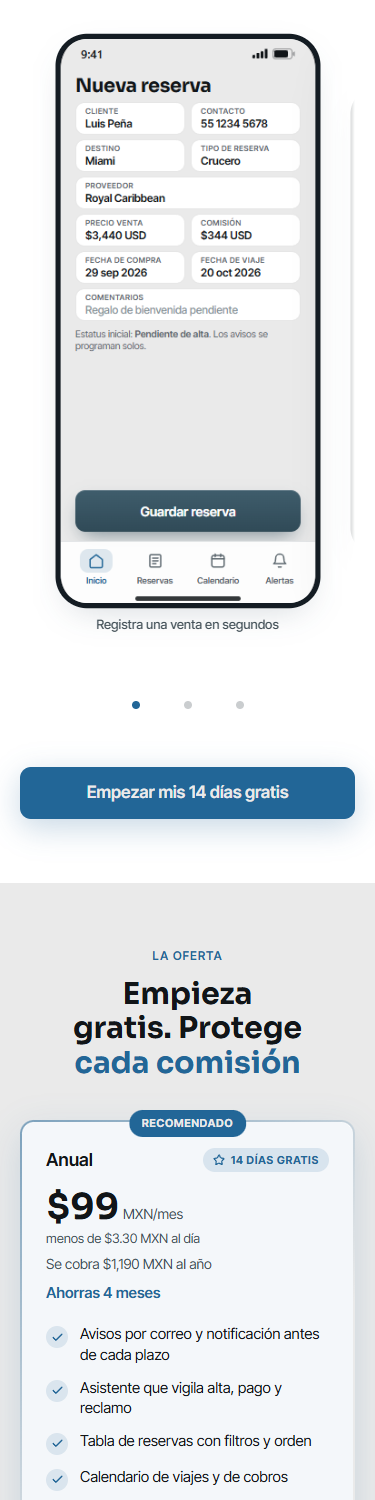
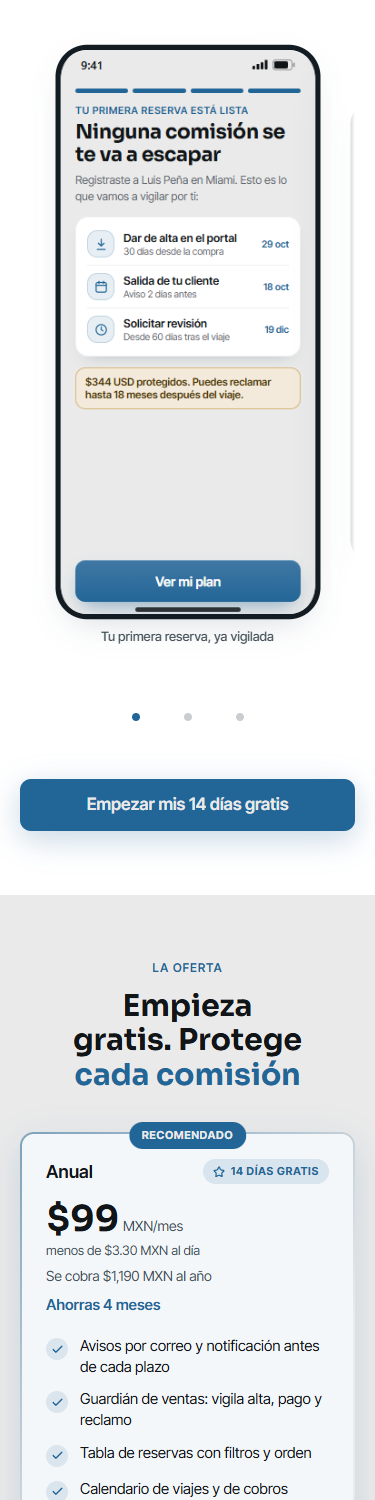
style: Guardian de ventas como nombre del metodo, pasos con contorno, sin tarjeta de garantia y carrusel con el resultado primero

diff --git a/app/page.tsx b/app/page.tsx
@@ -15,7 +15,6 @@ import { EscenaFondo } from '@/components/landing/EscenaFondo';
 import { Solucion } from '@/components/landing/Solucion';
 import { AppPorDentro } from '@/components/landing/AppPorDentro';
 import { Oferta } from '@/components/landing/Oferta';
-import { Garantia } from '@/components/landing/Garantia';
 import { Faq } from '@/components/landing/Faq';
 import { CtaFinal } from '@/components/landing/CtaFinal';
 import { FooterLegal } from '@/components/landing/FooterLegal';
@@ -41,7 +40,7 @@ export default function Landing() {
         logoCompleto
         loginHref="/entrar"
         h1Marked="[acento]Ninguna comisión[/acento] se te vence sin que lo sepas"
-        subtitleMarked="Te avisamos del [b]alta a 30 días[/b] y del [b]reclamo a 18 meses[/b]"
+        subtitleMarked="Tu Guardián de ventas te avisa: [b]alta a 30 días[/b], [b]reclamo a 18 meses[/b]"
         ctaLabel={CTA_LABEL}
         ctaHref={CTA_HREF}
         socialProof={<span className="text-balance">Hecho para agentes de agencias Host en México. Tarjeta al empezar, sin cobro hoy.</span>}
@@ -87,9 +86,9 @@ export default function Landing() {
 
       <Solucion
         kicker="¿CÓMO FUNCIONA?"
-        tituloMarked="[acento]Tu asistente[/acento] vigilando cada comisión"
-        mecanismo="tu asistente de comisiones"
-        bigIdeaMarked="Cada venta que registras tiene su asistente: [b]te avisa antes de que venza cada plazo[/b]."
+        tituloMarked="[acento]Tu Guardián de ventas[/acento] vigilando cada comisión"
+        mecanismo="Guardián de ventas"
+        bigIdeaMarked="Cada venta que registras tiene su guardián: [b]te avisa antes de que venza cada plazo[/b]."
         pasos={[
           { titulo: 'Registra la venta', detalle: 'Cliente, destino, fechas y comisión, en segundos desde tu celular.' },
           { titulo: 'Calculamos tus plazos', detalle: 'Alta a 30 días de la compra, revisión a 60 días del viaje y reclamo a 18 meses.' },
@@ -107,8 +106,8 @@ export default function Landing() {
         kicker="VISTAS DE EJEMPLO DE LA APP"
         tituloMarked="Dale un vistazo a [acento]tu próximo asistente[/acento]"
         frames={[
-          { src: '/mock/nueva-reserva.png', alt: 'Vista de ejemplo: formulario de nueva reserva', label: 'Registra una venta en segundos' },
           { src: '/mock/resultado.png', alt: 'Vista de ejemplo: plazos programados de una reserva', label: 'Tu primera reserva, ya vigilada' },
+          { src: '/mock/nueva-reserva.png', alt: 'Vista de ejemplo: formulario de nueva reserva', label: 'Registra una venta en segundos' },
           { src: '/mock/calendario.png', alt: 'Vista de ejemplo: calendario del mes', label: 'Viajes y cobros en un calendario' },
         ]}
         ctaLabel={CTA_LABEL}
@@ -130,7 +129,7 @@ export default function Landing() {
           ctaHref: '/onboarding?plan=anual',
           features: [
             'Avisos por correo y notificación antes de cada plazo',
-            'Asistente que vigila alta, pago y reclamo',
+            'Guardián de ventas: vigila alta, pago y reclamo',
             'Tabla de reservas con filtros y orden',
             'Calendario de viajes y de cobros',
             'Importa tu Excel: tu base lista el mismo día',
@@ -144,21 +143,12 @@ export default function Landing() {
           ctaHref: '/onboarding?plan=mensual',
           features: [
             'Avisos por correo y notificación antes de cada plazo',
-            'Asistente que vigila alta, pago y reclamo',
+            'Guardián de ventas: vigila alta, pago y reclamo',
             'Importa tu Excel: tu base lista el mismo día',
             'Tabla de reservas con filtros y calendario',
             'Cancelas cuando quieras',
           ],
         }}
-      />
-
-      <p className="bg-[var(--bg)] px-5 pb-10 text-center text-sm text-[var(--text-secondary)]">
-        Si cancelas antes de los 14 días, no pagas nada.
-      </p>
-
-      <Garantia
-        nombre="Prueba de 14 días sin riesgo"
-        condicionMarked="Pruébalo 14 días sin cobro. Si no te sirve, [b]cancelas antes[/b] y no pagas nada."
       />
 
       <Faq

diff --git a/components/landing/Solucion.tsx b/components/landing/Solucion.tsx
@@ -93,7 +93,7 @@ export function Solucion({
                 {String(i + 1).padStart(2, '0')}
               </span>
               <span aria-hidden="true" className="h-4 w-px bg-[color-mix(in_oklab,var(--accent)_45%,transparent)]" />
-              <div className="tarjeta-suave flex w-full flex-1 flex-col items-center justify-center rounded-[var(--radius-card)] px-5 py-4 text-center">
+              <div className="flex w-full flex-1 flex-col items-center justify-center rounded-[var(--radius-card)] border border-[color-mix(in_oklab,var(--accent)_45%,transparent)] bg-transparent px-5 py-4 text-center">
                 <h3 className="text-[16px] font-semibold text-[var(--text-primary)]">{p.titulo}</h3>
                 <p className="mt-1 text-[15px] leading-snug text-[var(--text-secondary)]">{p.detalle}</p>
               </div>

diff --git a/components/ImportarExcel.tsx b/components/ImportarExcel.tsx
@@ -45,7 +45,7 @@ export function ImportarExcel() {
         {/* 1 · Texto */}
         <div className="text-center min-[1120px]:col-start-1 min-[1120px]:row-start-1 min-[1120px]:text-left">
           <p className="text-xs font-semibold uppercase tracking-[0.08em] text-[var(--accent)]">¿Ya tienes todo en Excel?</p>
-          <h2 className="mt-2 text-balance text-[28px] font-bold leading-[1.15] [font-family:var(--font-display)] md:text-[34px]">
+          <h2 className="mt-2 text-balance text-[30px] font-bold leading-[1.15] [font-family:var(--font-display)] md:text-[34px]">
             Importa todos los datos de tu Excel <span className="text-[var(--accent)]">en segundos</span>
           </h2>
           <p className="mt-3 text-[17px] leading-relaxed text-[var(--text-secondary)]">

diff --git a/components/landing/ui.tsx b/components/landing/ui.tsx
@@ -234,7 +234,7 @@ export function StickyCtaMobile({
           <motion.a
             whileTap={{ scale: 0.97 }}
             href={ofertaVista ? href : `#${ofertaId}`}
-            className="flex h-12 w-full items-center justify-center rounded-[var(--radius-button)] bg-[var(--accent)] text-[16px] font-semibold text-[var(--bg)] [touch-action:manipulation]"
+            className="flex h-12 w-full items-center justify-center rounded-[var(--radius-button)] bg-[var(--accent)] text-[16px] font-semibold text-[var(--on-accent)] [touch-action:manipulation]"
           >
             {ofertaVista ? labelComercial : labelPre}
           </motion.a>

diff --git a/components/AvisosAsistente.tsx b/components/AvisosAsistente.tsx
@@ -16,7 +16,7 @@ export function AvisosAsistente() {
   return (
     <section aria-label="Los avisos de tu asistente" className="bg-[var(--bg)] pb-12 pt-16 md:pt-24">
       <div className="mx-auto w-full max-w-[1140px] px-5">
-        <h2 className="text-balance text-[28px] font-bold leading-[1.15] [font-family:var(--font-display)] md:text-[34px]">
+        <h2 className="text-balance text-[30px] font-bold leading-[1.15] [font-family:var(--font-display)] md:text-[34px]">
           Cada venta te da <span className="text-[var(--accent)]">aviso de:</span>
         </h2>
         <ul className="mt-5 grid gap-3 md:grid-cols-2">

diff --git a/docs/revisiones/landing-veredicto.md b/docs/revisiones/landing-veredicto.md
@@ -1,9 +1,28 @@
-# VEREDICTO revisor-visual — landing
-Fecha: 2026-10-20 10:00
+# VEREDICTO revisor-visual — landing (ronda 3)
+Fecha: 2026-10-20 12:00
 Screenshot: docs/revisiones/landing-375.png
 Usabilidad: 28/40
-Craft: 12/20
+Craft: 14/20
 Copy (si vende): 15/20
-Fidelidad (si hubo referencia): FIEL
+Fidelidad (si hubo referencia): N-A
 Veredicto: NO LISTA
-Top defectos: (1) CRITICO subtitulo del hero truncado a "alta a los 30..." por truncarMarcado(…,14) en components/landing/Hero.tsx: la correccion de plazos concretos no llega a pantalla; (2) CRITICO captura invalida: Problema, "Con AgentTrack", lista de avisos, Oferta, Garantia y FAQ salen en blanco (whileInView sin disparar), ~55% de la pagina sin verificar; (3) ALTO bloque azul de BandaPuente vacio ~620px y franja blanca vacia ~400px bajo "ANTES"; (4) MEDIO chip del mecanismo "tu asistente de comisiones" es una linea azul suelta sin contenedor y la misma frase "Tarjeta al empezar, sin cobro hoy" se repite 5 veces; (5) MEDIO alineacion inconsistente entre titulos (hero y Excel centrados, Solucion y Avisos a la izquierda), carrusel de vistas con hueco muerto dentro del mock y puntos de 6px como control tactil.
+Top defectos: 1) el mecanismo bautizado es una etiqueta genérica y no está en el hero; 2) la banda Excel tiene tarjetas con aspecto de botón que no hacen nada, de anchos desiguales y con un ícono defectuoso; 3) la promesa de prueba sin riesgo se repite 4 veces con un bloque grande de relleno; 4) AvisosAsistente e ImportarExcel rompen el sistema de secciones (h2, alineación, tarjetas); 5) la pantalla que vende (el aviso dorado) no se muestra en ningún sitio y el carrusel abre con un formulario.
+
+Detalle (sobre captura completa de 7 partes y código de app/page.tsx + components/landing/*):
+- Usabilidad: h1:3 h2:3 h3:3 h4:2 h5:3 h6:3 h7:3 h8:2 h9:3 h10:3
+- Craft: jerarquía:3 profundidad:3 identidad:2 movimiento:3 encaje:3
+- Copy: idea:3 especificidad:3 emoción:3 oferta:3 acción:3
+- Gate de carga cognitiva: 1 falla (elemento que parece interactivo y no actúa: pasos de ImportarExcel) → no es sobrecarga crítica.
+- CTA héroe vivo: cumple los 4 (contraste ~6.1:1, whileTap 0.97, nunca disabled, 52px ancho completo). Menor: el sticky usa var(--bg) como color de texto y el kit usa --on-accent (token distinto para lo mismo).
+- Anclas de conversión: titular con énfasis OK, hairline degradé en plan anual OK, chips SVG y checks custom OK, secciones adyacentes distinguibles OK.
+- Ficha-arte: paleta #226697 sobre #EAEAEA/blanco, Sora + Inter Tight, radios 14/11 coinciden. El dorado #BE8C2D (dispositivo ownable) NO aparece en la UI de la landing, solo dentro de imágenes de la usuaria.
+- Movimiento (código): reveal escalonado con reduced-motion en Solución/Oferta/Faq/AppPorDentro/Banda/Avisos, whileTap en CTAs, FAQ con altura animada, sticky con entrada. Sin conteo de números, sin dibujado (no aplican mucho a landing); Hero solo fade; AntesDespues/ImportarExcel estáticos.
+- Heurísticas 3/7 (código): sin undo aplicable; control = Entrar, enlaces legales, FAQ colapsable, dots tocables 44px; flexibilidad = sticky CTA de 2 estados, deep links ?plan=anual|mensual, /entrar.
+- Notas de archivos de imagen de la usuaria (no penalizadas como decisión, solo legibilidad): burbujas del ANTES y alertas del CON, y la pantalla del celular del hero y de la banda Excel, son ilegibles a 375px (texto ~7-9px efectivos).
+
+TOP DEFECTOS
+1. [Solución + hero, partes 01-02] ALTA — el "mecanismo bautizado" es "tu asistente de comisiones" (etiqueta genérica en barra azul), no aparece en el hero, y la misma idea se explica 3 veces (3 pasos, 4 avisos, Antes/Con). Fix: bautizar con nombre propio (p.ej. "Alarma de plazos") y repetirlo en subtítulo del hero, chip de Solución y features de ambos planes; fusionar Avisos dentro de los pasos.
+2. [ImportarExcel, parte 04 y 03-04 y≈870-1270] ALTA — los 3 pasos son tarjetas con sombra e ícono de subir que parecen botones y no hacen nada; anchos desiguales (≈165/240/175px); el ícono del paso 2 muestra barras grises fantasma detrás del check (parece un glitch); además repite los 3 pasos de Solución. Fix: pasos planos en lista numerada de ancho completo (sin sombra ni upload), quitar IconoColumnas o dejar solo el check, o reducir la banda a imagen + una línea.
+3. [Oferta/Garantía/Faq/CtaFinal, partes 05-07] MEDIA — "14 días, cancelas antes y no pagas nada" aparece en la línea bajo los planes, en la tarjeta grande "Prueba de 14 días sin riesgo" (con escudo que simula garantía), en la FAQ y en el recap final, además de los 2 badges. Fix: borrar la línea suelta y reducir la tarjeta a una línea dentro de la card anual; usar ese espacio para mostrar el aviso real; dejar el texto honesto de que es prueba, no garantía.
+4. [AvisosAsistente y ImportarExcel vs kit, partes 03-04] MEDIA — rompen el sistema: h2 28px sin kicker (Avisos) vs 30px con kicker (Solución/Oferta), alineación que salta izquierda/centro entre secciones, y 3 variantes de tarjeta (Problema gris, tarjeta-suave centrada, Avisos con borde y texto a la izquierda); token de texto del sticky distinto al del CTA. Fix: pasarlos por SectionShell + Kicker + h2 30/40 y un solo componente de tarjeta; usar --on-accent en el sticky.
+5. [Identidad y prueba visual, partes 02-05] MEDIA — Avisos dice "se pinta en dorado" pero no hay ninguna tarjeta en dorado; el dorado #BE8C2D (firma de la ficha) no existe en la landing; el carrusel abre con "Nueva reserva" (un formulario) y las vistas 2-3 no se ven a 375px (solo una astilla), así que lo que vende (el aviso) nunca se ve en la UI; 3 tratamientos de imagen distintos (recorte 3D, foto oscura, recortes con mancha azul). Fix: pintar la 1ª tarjeta de Avisos con franja dorada, reordenar el carrusel con "resultado/avisos" primero y mostrar la 2ª vista asomando con más margen.

diff --git a/docs/revisiones/pantalla-principal-veredicto.md b/docs/revisiones/pantalla-principal-veredicto.md
@@ -1,9 +1,9 @@
 # VEREDICTO revisor-visual — pantalla-principal
-Fecha: 2026-10-20 13:00
+Fecha: 2026-10-20 14:00
 Screenshot: docs/revisiones/pantalla-principal-375.png
-Usabilidad: 30/40
+Usabilidad: 29/40
 Craft: 15/20
 Copy (si vende): N-A
 Fidelidad (si hubo referencia): N-A
 Veredicto: NO LISTA
-Top defectos: 1) [Alta] Datos de ejemplo que parecen un error: en "Reservas recientes" la misma reserva "Luis Peña · Miami $344 USD / Pendiente de alta" aparece dos veces (salidas 2 dic y 9 nov) y "Marcos y Ana" ocupa dos filas seguidas en "Lo que sigue"; el usuario piensa que la app duplica -> corregir semilla (clientes/destinos/montos distintos) y/o agrupar alertas por cliente. 2) [Alta] "Lo que sigue": el título "Pago del cliente · Marcos y Ana" se parte en 2 líneas (sin truncate) y deja esa fila más alta que las demás con la insignia centrada a otra altura; las otras filas ocupan 1 línea -> poner la acción como línea 1 corta ("Pago del cliente") y el cliente en el subtítulo, o truncate + fecha; mismo patrón de fila en las dos listas (en recientes sí trunca). 3) [Media] Tarjeta héroe: border-b-4 dorado sobre esquinas redondeadas dibuja dos medias lunas en las esquinas inferiores en lugar de una franja limpia, y es el único dispositivo ownable (fino); las etiquetas de mosaico en text-xs (12px) sobre blanco 15% son pequeñas -> hacer la franja con un pseudo-elemento recortado por overflow-hidden y dar peso al detalle firma; etiquetas a 13px. 4) [Media] Ritmo de espaciado: gap-5 (20px, fuera de la escala 4·8·12·16·24·32) es idéntico entre cabecera, héroe, alerta, botones y secciones; la alerta (pertenece al total) queda tan lejos del héroe como una sección nueva -> 16px entre héroe y alerta, 24-32px antes de cada sección, y quitar el 20px. 5) [Media] Movimiento incompleto (código): hay stagger, Contador y active:scale-[0.97] en botones, pero las tarjetas usan 0.99 (no se siente), entrada(4) se repite para botones y "Lo que sigue" (sin escalonado entre ellos), no hay transición entre pestañas ni celebración, y los mosaicos del héroe parecen tapables pero no hacen nada (ni atajo a filtrar por estatus) -> tap 0.97 en tarjetas, índices de entrada únicos, mosaicos como enlaces a Reservas filtradas o sin apariencia de botón, transición suave de página. Otros: sin "Salir" visible en móvil con auth local es consistente; la sección "Lo que sigue" desaparece sin mensaje si no hay alertas (falta "Todo al día"); radios mezclados 8/11/14/pill entre mosaicos, alerta y tarjetas; barra de pestañas flotante tapa contenido a mitad de tarjeta en el primer viewport (esperable, con pb-32 correcto al fondo). Corregido bien desde la ronda 1: mosaicos con etiquetas distintas, alerta de una línea tras el total, escala 30/20, "Ver alertas/Ver reservas", íconos de pestañas iguales.
+Top defectos: 1) [Alta] Mosaicos del héroe (2 esperan alta / 3 pago pendiente / 2 en revisión): los tres son enlaces a la MISMA pantalla /app/reservas sin filtro; parecen filtros por estatus y no lo son (promesa rota, h6/h8) -> enlazar a /app/reservas?estatus=... o quitarles la apariencia de botón; además "pago pendiente" se parte en 2 líneas y los otros en 1 (desencaje) -> etiquetas cortas ("por cobrar") o text-[13px] con whitespace-nowrap. 2) [Alta] "Lo que sigue" redundante y genérico: filas 1 y 2 son el mismo cliente y la misma fecha (Marcos y Ana, 24 oct) con títulos "Dar de alta" / "Pago del cliente" idénticos al de otras filas, y Marcos y Ana reaparece en Reservas recientes; el usuario ve lo mismo tres veces y no distingue qué hacer primero -> agrupar alertas por reserva (una fila por cliente con "2 pendientes") y poner en el título la acción con destino ("Dar de alta a Marcos y Ana en Caribe"). 3) [Media] Demasiados objetivos táctiles competidores sobre el pliegue (h8): banner de ejemplo, Mi cuenta, 3 mosaicos, alerta, CTA dorado, Importar Excel, Ver alertas, y ya la primera tarjeta queda tapada por la cápsula; el CTA primario aparece recién a ~520px -> compactar el banner de demo a una línea o moverlo al final, y subir el CTA dorado justo debajo de la alerta (ya lo está) reduciendo Importar Excel a enlace de texto. 4) [Media] Escala tipográfica fuera del contrato (FICHA: display 38 / title 21 / body 14 / label 11): se ven ~30 (saludo), 36 (total), 20 (títulos), 16, 14 y 12 (insignias, badge) = 6 tamaños, más de 3 por pantalla; insignias de ~12px sobre pastel con contraste justo -> unificar a 3 tamaños + label y subir insignias a 13px con texto más oscuro. 5) [Media] Radios mezclados (mosaicos rounded-lg 8px, alerta y botones radius-button, tarjetas radius-card 14, insignias pill, cápsula) y dispositivo ownable aún tímido (franja dorada de 6px sobre héroe azul genérico tipo fintech; sin textura/ilustración de serie) -> mosaicos con radio 11px del kit y dar al héroe un detalle firma propio (grano sutil o trazo de ruta de viaje). Movimiento (código): stagger con índices únicos, Contador y scale 0.97 ahora OK con reduced-motion; falta transición entre pestañas y no hay celebración al cobrar (aceptable en esta pantalla, pero tope 3). Corregido bien desde la ronda 2: semilla limpia sin duplicados, filas con acción arriba y cliente+fecha abajo, franja dorada como barra recortada, mosaicos enlazados con etiqueta de 14px, ritmo 24/16px, mensaje "Todo al día". Verificaciones en código: h3 (deshacer) con confirmación de quitar demo y Cancelar, OK; h7 sin atajos de experto más allá del CTA siempre visible, 3; paleta/tipografía coinciden con FICHA-ARTE (azul #226697, dorado, Sora/Inter Tight), sin desvío; no coincide con los vetados Capítulo/Umbral. Gate de carga cognitiva: 0 fallas críticas.

diff --git a/docs/revisiones/onboarding-veredicto.md b/docs/revisiones/onboarding-veredicto.md
@@ -1,11 +1,9 @@
-# VEREDICTO revisor-visual — onboarding (ronda 2)
-Fecha: 2026-10-20 15:00
+# VEREDICTO revisor-visual — onboarding
+Fecha: 2026-10-20 12:00
 Screenshot: docs/revisiones/onboarding-375.png
-Usabilidad: 31/40
+Usabilidad: 29/40
 Craft: 13/20
 Copy (si vende): 15/20
-Fidelidad (si hubo referencia): FIEL
+Fidelidad (si hubo referencia): N-A
 Veredicto: NO LISTA
-Top defectos: 1) [ALTA, craft/encaje, paso 3 reserva] El selector USD/MXN queda ~8px más arriba que el input "Tu comisión" (toggle y=323-371, input y=331-379) por el mt-5 fijo: desencaje visible a simple vista -> alinear con items-end o dar al toggle su propia etiqueta "MONEDA" de la misma altura que la del input. 2) [ALTA, craft/identidad y ficha, todos los pasos] El radial dorado (btn-oro-to al 14%) abajo-izquierda del fondo es decoración: la FICHA-ARTE exige dorado SOLO para alerta por vencer; además deja una banda beige con costura bajo la barra fija (pasos 1, 3 y 4, y~795) y no hay ningún dispositivo ownable visible (sin hairline degradé ni franja dorada en la tarjeta héroe) -> quitar el radial dorado, añadir hairline degradé 1px a la tarjeta héroe del resultado y franja dorada solo cuando el plazo sea urgente. 3) [MEDIA, usabilidad/h8 y jerarquía, paso 4 resultado] Titular de 3 líneas a 36px + eyebrow + párrafo empujan la 4ª tarjeta (Último día para reclamar, la promesa de 18 meses) bajo el botón: su detalle y chip asoman tapados por el degradé; el banner de comisión queda fuera de la primera vista -> titular a 2 líneas ("Tu primera reserva ya está vigilada" + nombre en el eyebrow), quitar el párrafo duplicado o reducir tarjetas a 3 visibles + resto en scroll con espacio reservado bajo la barra. 4) [MEDIA, copy/oferta, paso 4 microcopy] "Tarjeta hoy, sin cobro hasta el 3 de noviembre" es críptico (no dice que la tarjeta solo se registra) y no nombra la garantía/reembolso con plazo junto al botón; tampoco resume qué recibe (avisos de alta, salida y reclamo) -> "Hoy solo registras tu tarjeta; no te cobramos hasta el 3 de noviembre. Luego $149 MXN al mes o $1,190 al año. Cancelas cuando quieras." + una línea con la garantía nombrada según FICHA-MERCADO. 5) [MEDIA, copy/emoción y acción, pasos 1 a 3] Los titulares y subtítulos de los pasos 1 a 3 son neutros ("Así tu plan se siente tuyo", "Son unos 30 segundos") y 5 botones dicen solo "Continuar": no usan la voz del avatar ni el beneficio; el paso 1 deja ~450px de vacío muerto con un solo campo -> subtítulos con la escena del avatar ("para que tus comisiones no se queden en el aire") y CTAs de beneficio en primera persona ("Seguir con mi plan"); llenar el hueco del paso 1 con una línea de valor (p. ej. "Te avisamos a los 30 días, antes de que salga tu cliente y a los 18 meses").
-
-Notas: no se penaliza la decisión de no ofrecer "No saber si ya me pagaron". Verificado en código: CTA héroe vivo (h-14, whileTap 0.97, nunca disabled, contraste blanco sobre #226697 >6:1); movimiento: stagger, anillo y conteo de progreso, tap, transición de pasos y reduced-motion presentes; sin conteo de número héroe en el resultado y celebración limitada a un check con spring. Paleta, Sora/Inter Tight y radio 14 coinciden con la ficha salvo el dorado decorativo. Control (h3) y flexibilidad (h7) verificados en código: atrás con historial real, estado en localStorage, defaults y datos de ejemplo; la selección avanza sola a los 300ms sin deshacer explícito. No se capturaron en pantalla los pasos 2 (agencia), 3 (control), 5 (reconocimiento) ni 7 (cargando): puntuados solo por código.
+Top defectos: 1) 04-resultado-375.png esta en blanco (solo barra al 6%, sin contenido): la pantalla que lleva al paywall no tiene evidencia visual valida, se puntua por codigo. 2) Fondo plano #EAEAEA con un gradiente azul tenue arriba; las opciones y campos son blancos sin sombra: profundidad 2/4. Pasos 1-3 sin dispositivo ownable (tarjeta heroe azul + franja dorada solo existe en el resultado, no verificado). 3) Resultado en modo ejemplo: titular de 4xl "Asi se vera tu asistente con tu primera reserva real, [nombre]" (4+ lineas) contradice el eyebrow "[nombre], tu primera reserva esta lista" y rompe la regla de titular corto. 4) Paso 1: 3 lineas de valor planas en caja gris + hueco muerto de ~330px hasta el boton; paso 2 y 3 tambien con vacio bajo el contenido; el escenario del dolor ("trabajar de a gratis", angustia nocturna de FICHA-AVATAR) no aparece hasta el paso 5. 5) Errores de campo son solo "Escribe el cliente."; no hay aviso si falla el guardado local; el resultado tiene 4 filas + 2 avisos + CTA + microcopy de 3 frases (sobrecarga), sin conteo animado del monto de comision ni celebracion.

diff --git a/docs/revisiones/paywall-veredicto.md b/docs/revisiones/paywall-veredicto.md
@@ -1,9 +1,9 @@
 # VEREDICTO revisor-visual — paywall
-Fecha: 2026-10-20 12:00
+Fecha: 2026-10-20 15:00
 Screenshot: docs/revisiones/paywall-375.png
 Usabilidad: 31/40
 Craft: 15/20
 Copy (si vende): 16/20
 Fidelidad (si hubo referencia): N-A
 Veredicto: NO LISTA
-Top defectos: 1) Barra fija tapa el plan Mensual en el primer viewport (precio $149 cortado, comparacion de planes rota sin scroll) -> compactar contenido sobre los planes (hero card o 3 beneficios a 2) para que ambos planes queden sobre la barra a 375x812. 2) Copy eje emocion = 2 (ningun dolor del avatar visible; la linea "Una sola comisión que no dejes vencer puede pagar tu año" queda bajo la barra) -> subirla junto a los planes con el literal "no trabajes de a gratis". Con un eje <=2 se corrige aunque el total pase. 3) Beneficios dicen alta 30 dias / reclamo 18 meses; FICHA-AVATAR habla de alertas a 24h y 90 dias: incoherencia de promesa -> alinear con el dato real. 4) Preferencias de aviso (checkbox + 3 chips de hora) dentro del paywall antes de pagar suman decisiones y largo -> moverlas a despues del pago o dejar default fijo. 5) Sin estado de error/tiempo de espera si el pago no abre (spinner indefinido, solo se reinicia con pageshow) -> tras ~8 s mostrar "No se abrió tu pago, intenta de nuevo" y reactivar el boton. Menores: pill dorado "344 USD" sigue siendo dorado en tarjeta azul (la ficha lo reserva a alerta/monto en riesgo, aceptable pero vigilar); mas de 3 tamanos de texto (36/24/16/14/12).
+Top defectos: 1) [Primer viewport, lista de beneficios] la barra fija corta el primer beneficio a media frase ("...alta (30 dias) y el" y la segunda linea queda tapada) y los otros dos quedan ocultos; se ve como texto roto, no como invitacion a hacer scroll -> compactar la tarjeta "Ya registraste" (quitar la linea "Sin plan, esta reserva..." o fusionarla en 1 linea) o mover la frase del dolor a 2 lineas para que al menos un beneficio entre completo, o no mostrar beneficios en el primer viewport. 2) [Bajo la barra, linea de tiempo] la info que mas calma el miedo al cobro ("Hoy no pagas nada", "te avisamos el 1 de noviembre", "primer cobro 3 de noviembre") solo se ve tras scroll; en el viewport inicial solo hay "Despues, $1,190 MXN al año" -> subir al subtexto de la barra: "Hoy no pagas. Te avisamos el 1 de nov. Cobro el 3 de nov." (h1/h6/h5). 3) [Barra fija, mensaje de error] el correo de soporte es texto plano, no enlace, y no explica causa ni alternativa (revisa conexion / bloqueador de ventanas) -> convertirlo en mailto y agregar "Revisa tu conexion e intentalo otra vez" (h9=3, no 4). 4) [Movimiento] el precio heroe $99/$149 no cuenta al entrar (Numero arranca en su valor; solo anima al cambiar de plan), el bloque desplegable "Personalizar mi aviso" abre/cierra en seco (details nativo sin transicion) y no hay entrada escalonada en hero/planes, solo en los beneficios -> animar conteo en montaje, stagger de hero y planes, abrir el desplegable con altura animada. 5) [Jerarquia] mas de 3 tamaños (36/24/20/16/14/12) y los dos planes pesan casi igual: el chip slate "AHORRAS 4 MESES" compite con "RECOMENDADO" y el pill dorado de la tarjeta azul esta en mas lugares que "monto en riesgo" justifica -> dejar un solo chip (RECOMENDADO) y llevar el ahorro a una linea de texto bajo "$99"; bajar a 3-4 tamaños. Notas: ambos planes ya caben sobre la barra (corregido); la frase del dolor sube junto a los planes (eje emocion 3, corregido; "de a gratis" es coloquial, aceptable para el avatar MX); error de pago por timeout de 8 s presente (h9 sube de 2 a 3); sin garantia, testimonios ni numeros de prueba social: no se penaliza por decision deliberada. Pisos no alcanzados: usabilidad 31 < 36 y craft 15 < 16; copy 16 cumple el piso y ningun eje <=2.
